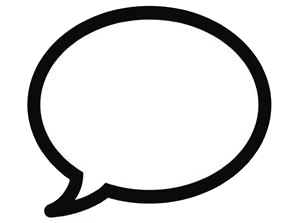
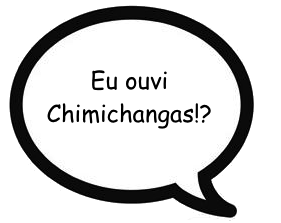
Commit9

Changed region(s): [[0.0285, 0.0, 0.968, 0.9955], [0.3132, 0.296, 0.5979, 0.4036]]

diff --git a/script.js b/script.js
@@ -18,12 +18,15 @@ function show(e){
 	document.getElementById('Contact').style.display = "none";
 	document.getElementById('Deadpool').style.display = "none";
 	document.getElementById('lil').style.display = "none";
+	document.getElementById('baloon').style.display = "none";
+	document.getElementById('baloon2').style.display = "none";
 	var cont = document.getElementById('Content')
 
 	if(e.target.innerText == 'Inicio'){
 		document.getElementById('Content').style.visibility = "hidden";
 		document.getElementById('BackContent').style.visibility = "hidden";
 		document.getElementById('lil').style.display = "block";
+		document.getElementById('baloon').style.display = "block";
 	}
 	else if(e.target.innerText == 'Sobre'){
 		document.getElementById('Content').style.visibility = "visible";
@@ -83,8 +86,12 @@ function show(e){
 		document.getElementById('BackContent').style.visibility = "visible";
 		if(document.getElementById('Deadpool').style.display == "block")
 			document.getElementById('Deadpool').style.display = "none";
-		else
+		else{
 			document.getElementById('Deadpool').style.display = "block";
+			document.getElementById('lil').style.display = "block";
+			document.getElementById('baloon2').style.display = "block";
+
+		}
 		if(cont.scrollHeight > cont.clientHeight || cont.scrollWidth > cont.clientWidth){
 			var alturaAtual = document.getElementById('Deadpool').offsetHeight;
 			console.log(alturaAtual)

diff --git a/style.css b/style.css
@@ -237,8 +237,17 @@ a{
 #baloon{
 	display: none;
 	position: absolute;
-	top: 50%;
-	right: 0;
+	top: 33%;
+	right: 30;
+	width: 200px;
+	height: 150px;
+
+}
+#baloon2{
+	display: none;
+	position: absolute;
+	top: 33%;
+	right: 30;
 	width: 200px;
 	height: 150px;
 

diff --git a/index.html b/index.html
@@ -94,6 +94,7 @@
 	</div>
 	<div id="balao">
 		<img id="baloon"src="balao.png">
+		<img id="baloon2"src="balao2.png">
 	</div>
 
 	<div id="lightbox" class="lightbox" style="display:none"
